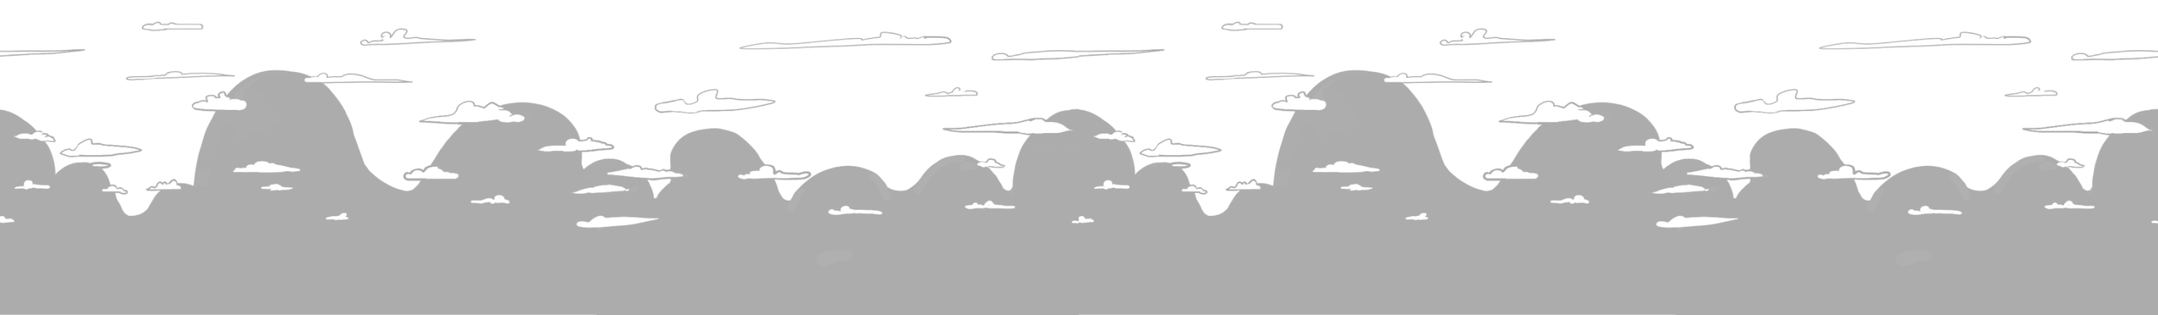
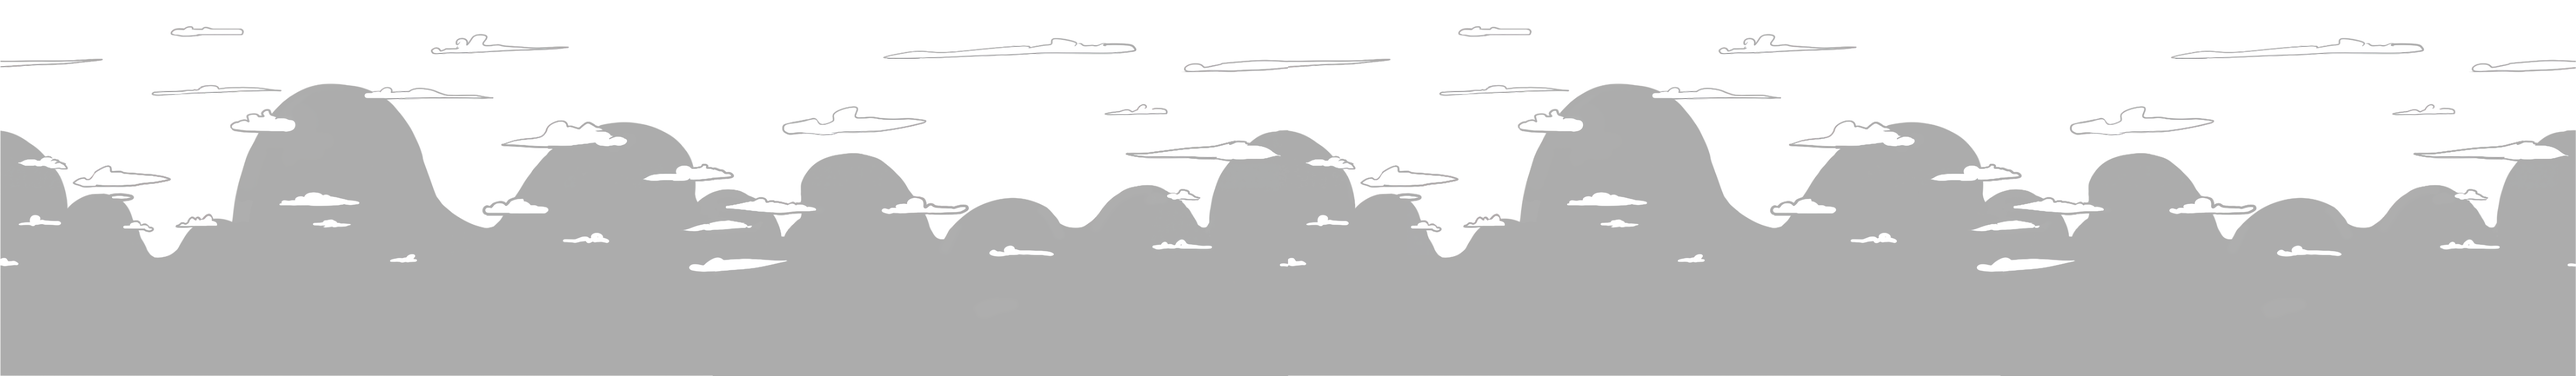
Fix background

Changed region(s): [[0.9995, 0.3392, 1.0, 1.0], [0.9058, 0.1233, 0.937, 0.1542], [0.1562, 0.2467, 0.1874, 0.2775]]

diff --git a/src/scenes/LevelScene.js b/src/scenes/LevelScene.js
@@ -64,7 +64,7 @@ export default class LevelScene extends Phaser.Scene {
     this.physics.world.drawDebug = false;
     this.physics.world.debugGraphic.clear();
 
-    this.events.on('resize', () => {
+    this.events.on("resize", () => {
       const zoomFactor = window.innerHeight / 1080;
       this.cameras.main.zoom = zoomFactor;
       this.events.once("update", () => {
@@ -132,7 +132,7 @@ export default class LevelScene extends Phaser.Scene {
     const bg = this.add
       .tileSprite(
         0,
-        960,
+        1080,
         window.innerWidth,
         this.textures.get("mountains").getSourceImage().height,
         "mountains"
@@ -564,8 +564,12 @@ export default class LevelScene extends Phaser.Scene {
 
     this.bg.setTilePosition(this.cameras.main.scrollX * 0.5, 0);
     if (this.cameras.main.worldView.width > 0 && !this.bgResized) {
-      this.resizeBackground();
+      const zoomFactor = window.innerHeight / 1080;
+      this.cameras.main.zoom = zoomFactor;
       this.bgResized = true;
+      this.events.once("update", () => {
+        this.resizeBackground();
+      });
     }
 
     this.handleInput();

diff --git a/pages/index.html b/pages/index.html
@@ -18,6 +18,6 @@
   <body>
     <div id="game">
           </div>
-    <script src="./js/game.js?cb=7"></script>
+    <script src="./js/game.js?cb=10"></script>
   </body>
 </html>
